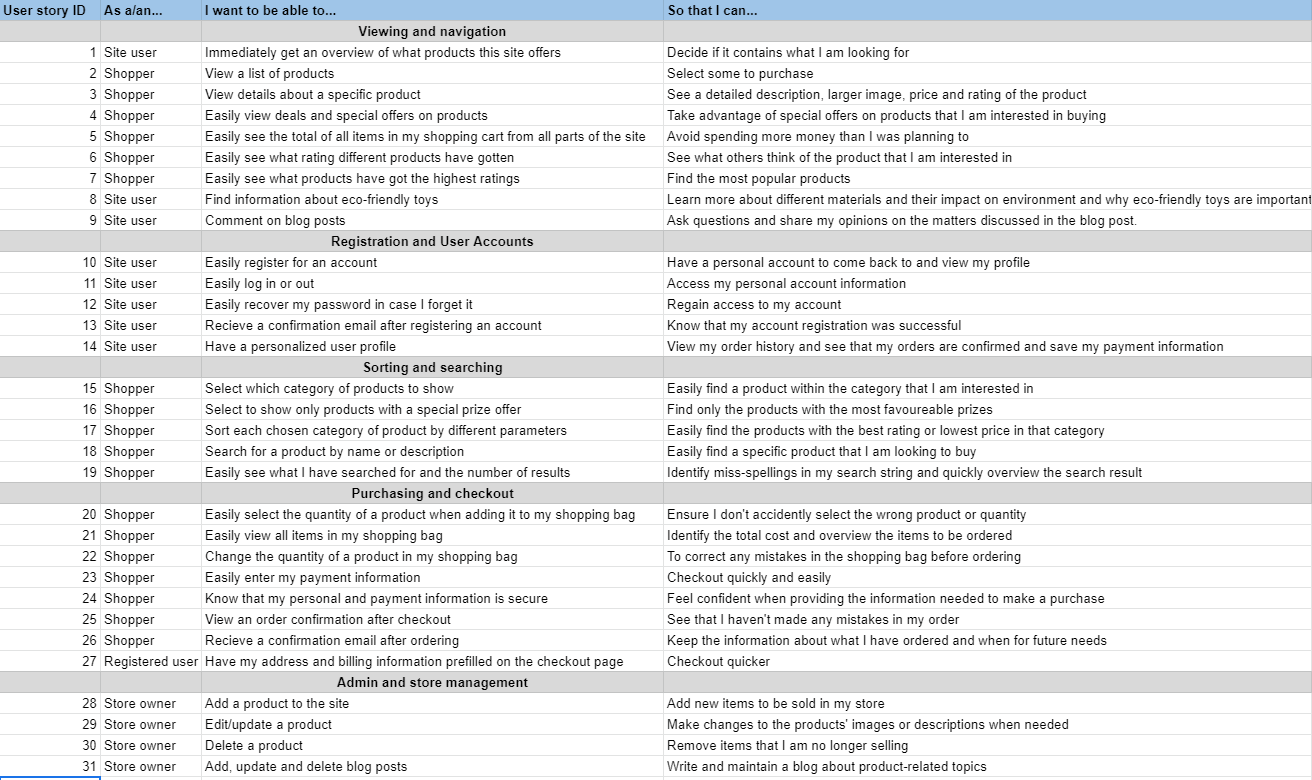
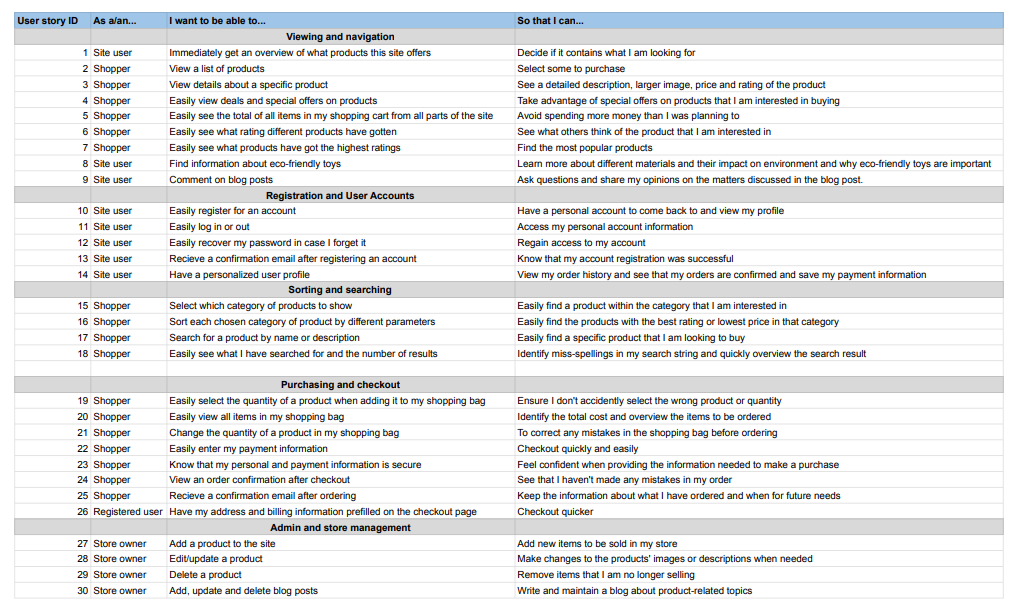
Testing and added images to user stories testing

diff --git a/blog/templates/blog/blog.html b/blog/templates/blog/blog.html
@@ -3,6 +3,7 @@
 
 {% block content %}
 <div class="container-fluid page-wrapper py-3">
+   <!-- Div showing if the user has searched for a blogpost, containing info about the search result and link back to all blog posts-->
     {% if search_term %} <a class="back-from-search" href="{% url 'blog' %}"><span class="icon"><i
        class="fas fa-arrow-left"></i></span> Back to all blog posts</a> {% else %} 
     <h3>Blog</h3>
@@ -15,6 +16,7 @@
        </div>
        <div class="row">
           <div class="col-4">
+         <!-- Search form for searching for blog posts -->
              <form method="GET" action="{% url 'blog' %}" class="d-flex ms-3 mt-3">
                 <input class="form-control nav-search-input mt-1" type="text" name="query"
                    placeholder="Search our blog" aria-label="Search">
@@ -24,6 +26,7 @@
           </div>
        </div>
     </div>
+    <!-- Decorative image showing on xl screens and up -->
     <div class="row align-items-center justify-content-center">
        <div class="d-none d-xl-block col-xl-2 mt-3">
           <img src="{{ MEDIA_URL }}bulb.png" class="blog-img"
@@ -33,6 +36,7 @@
           <h4 class=" my-3">Learn more about why sustainable toys are important and which materials to look for, or
              avoid
           </h4>
+          <!-- Displaying blog posts -->
           {% for blogpost in blogposts %}
           <div class="card-blog my-5 bg-white">
              <h5>{{ blogpost.title }}</h5>
@@ -41,6 +45,7 @@
              comment</a>
              {% if request.user.is_superuser %}
              <div class="my-3">
+            <!-- Functionality of editing and deleting blog posts, only showing if the user is logged in with superuser credentials -->
              <span class="edit-blogpost-link bg-white text-left"><a class="bg-white text-secondary"
                 href="{% url 'edit_blogpost' blogpost.id %}">Edit</a></span>
              <span class="delete-blogpost-link text-right"><a class="bg-white text-secondary"

diff --git a/home/templates/home/index.html b/home/templates/home/index.html
@@ -27,7 +27,7 @@
 <div class="container-fluid my-5 index-grid-container">
    <div class="row pb-5 align-items-center">
       <!-- Showing three toys that have campaign prices -->
-      <div class="col-12 col-lg-2 mt-2">
+      <div class="col-12 col-lg-2 mt-3">
          <h4 class="mb-2">Campaign</h4>
          <p class="text-danger">20% off original price!</p>
       </div>
@@ -52,7 +52,7 @@
    </div>
    <!-- Showing the three highest rated toys -->
    <div class="row align-items-center pb-5">
-      <div class="col-12 col-lg-2">
+      <div class="col-12 col-lg-2 mt-3">
          <h4 class="mb-2">Popular</h4>
       </div>
       {% for toy in toys %}
@@ -73,7 +73,7 @@
       {% endfor %}
    </div>
    <!-- Showing the three last added blogposts -->
-   <div class="row pb-5 align-items-center">
+   <div class="row pb-5 align-items-center mt-3">
       <div class="col-12 col-lg-2">
          <h4 class="mb-2">Blog</h4>
       </div>

diff --git a/static/css/base.css b/static/css/base.css
@@ -37,8 +37,8 @@ h2 {
 	font-family: 'Roboto Condensed', sans-serif;
 	font-size: 1.4rem;
     font-weight: bold;
-    -webkit-filter: drop-shadow(0.1rem 0.1rem 0.3rem #476919);
-	filter: drop-shadow(0.1rem 0.1rem 0.3rem #476919);
+    -webkit-filter: drop-shadow(0.1rem 0.1rem 0.2rem #264101);
+	filter: drop-shadow(0.1rem 0.1rem 0.2rem #264101);
 }
 
 h3,
@@ -198,7 +198,6 @@ hr {
 	margin-top: 3.5rem;
 	max-width: 100%;
 	position: absolute;
-	z-index: -10;
 }
 
 .header-banner h2 {
@@ -623,7 +622,7 @@ hr {
 
 @media (min-width: 768px) {
 	.index-hero {
-		background: url('/media/hero-img.jpg') no-repeat right center fixed;
+		background: url('../assets/images/hero-img.jpg') no-repeat right center fixed;
 		background-size: cover;
 	}
 	.index-card-text {

diff --git a/blog/templates/blog/edit_blog.html b/blog/templates/blog/edit_blog.html
@@ -8,6 +8,7 @@
     <h3>Edit Blogpost</h3>
     <div class="row justify-content-center">
        <div class="col-12 col-lg-6 col-xl-5 mt-5 ">
+          <!-- Form for editing a blogpost-->
           <form action="{% url 'edit_blogpost' blogpost.id %}" method="POST" enctype="multipart/form-data" class="site-form">
              {% csrf_token %}
              {% for field in form %}
@@ -24,13 +25,3 @@
     </div>
  </div>
  {% endblock %}
- {% block postloadjs %} 
- {{ block.super }} 
- <script type="text/javascript">
-    $('#new-image').change(function() {
-        var file = $('#new-image')[0].files[0];
-        $('#filename').text(`Image will be set to ${file.name}`);
-    });
-        
- </script>
-{% endblock %}

diff --git a/blog/templates/blog/confirm_delete_blog.html b/blog/templates/blog/confirm_delete_blog.html
@@ -8,6 +8,7 @@
     <h3>Delete Blogpost</h3>
     <div class="row justify-content-center">
        <div class="col-12 col-lg-6 mt-5 text-center">
+          <!-- Form for confirming that the superuser is certain they want to delete the chosen blogpost -->
           <form action="{% url 'delete_blogpost' blogpost.id %}" method="POST" enctype="multipart/form-data" class="site-form">
              {% csrf_token %}
              <legend class="mx-auto mb-5 mt-2 delete-confirm-legend">Are you sure you want to delete blogpost "{{ blogpost.title }}" ?</legend>

diff --git a/README.md b/README.md
@@ -128,75 +128,70 @@ The ideal client for this website is:
 
 15. As a shopper I want to be able to select which category of products to show so that I can easily find a product within the category that I am interested in
 
-16. As a shopper I want to be able to select to show only products with a special prize offer so that I can find only the products with the most favoureable prizes
-
-![Image of wireframe showing close up of dropdown with choice of category to show](/static/readme-assets/readme-images/categories.png)
-
-17. As a shopper I want to be able to sort each chosen category of product by different parameters so that I can easily find the products with the best rating or lowest price in that category
+16. As a shopper I want to be able to sort each chosen category of product by different parameters so that I can easily find the products with the best rating or lowest price in that category
 
 ![Image of wireframe showing close up of dropdown with choice of parameter to sort the product list by](/static/readme-assets/readme-images/sortby_closeup.png)
 
-18. As a shopper I want to be able to search for a product by name or description so that I can easily find a specific product that I am looking to buy
+17. As a shopper I want to be able to search for a product by name or description so that I can easily find a specific product that I am looking to buy
 
 ![Image of wireframe showing close up of search field](/static/readme-assets/readme-images/search.png)
 
-19. As a shopper I want to be able to easily see what I have searched for and the number of results so that I can identify miss-spellings in my search string and quickly overview the search result
+18. As a shopper I want to be able to easily see what I have searched for and the number of results so that I can identify miss-spellings in my search string and quickly overview the search result
 
 ![Image of wireframe showing search results page](/static/readme-assets/readme-images/search_results.png)
 
-20. As a shopper I want to be able to easily select a quantity of the product when adding it to my shopping bag, so that I an ensure I don't accidently select the wrong quantity
+19. As a shopper I want to be able to easily select a quantity of the product when adding it to my shopping bag, so that I an ensure I don't accidently select the wrong quantity
 
 ![Image of wireframe showing close up of quantity choose field on product details page](/static/readme-assets/readme-images/quantity_closeup.png)
 
-21. As a shopper I want to be able to easily view all items in my shopping bag so that I can identify the total cost and overview the items to be ordered
+20. As a shopper I want to be able to easily view all items in my shopping bag so that I can identify the total cost and overview the items to be ordered
 
 ![Image of wireframe of shopping bag page on mobile](/static/readme-assets/readme-images/shopping_bag_mobile.png)
 
 ![Image of wireframe of shopping bag page on web](/static/readme-assets/readme-images/shopping_bag_web.png)
 
-22. As a shopper I want to be able to change the quantity of a product in my shopping bag so that I can correct any mistakes in quantity of products before I order
+21. As a shopper I want to be able to change the quantity of a product in my shopping bag so that I can correct any mistakes in quantity of products before I order
 
 ![Image of wireframe showing close up of change quantity field in shopping bag](/static/readme-assets/readme-images/change_quantity_closeup.png)
 
-23. As a shopper I want to be able to easily enter my payment information so that I can checkout quickly and easily
-
+22. As a shopper I want to be able to easily enter my payment information so that I can checkout quickly and easily
 ![Image of wireframe of checkout page on mobile](/static/readme-assets/readme-images/checkout_mobile.png)
 
 ![Image of wireframe of checkout page on web](/static/readme-assets/readme-images/checkout_web.png)
 
-24. As a shopper I want to know that my personal and payment information is secure so that I can feel confident when providing the information needed to make a purchase
+23. As a shopper I want to know that my personal and payment information is secure so that I can feel confident when providing the information needed to make a purchase
 
 ![Image of closeup of info about secure checkout](/static/readme-assets/readme-images/secure_checkout.png)
 
-25. As a shopper I want to be able to view an order confirmation after checkout so that I can see that I haven't made any mistakes in my order
+24. As a shopper I want to be able to view an order confirmation after checkout so that I can see that I haven't made any mistakes in my order
 
-26. As a shopper I want to be able to recieve a confirmation email after ordering so that I can keep the information about what I have ordered and when for future needs
+25. As a shopper I want to be able to recieve a confirmation email after ordering so that I can keep the information about what I have ordered and when for future needs
 
 ![Image of wireframe of order confirmation page on mobile](/static/readme-assets/readme-images/order_confirmation_mobile.png)
 
 ![Image of wireframe of order confirmation page on web](/static/readme-assets/readme-images/order_confirmation_web.png)
 
-27. As a registered user I want to be able to have my address and billing information prefilled on the checkout page so that I can checkout quicker
+26. As a registered user I want to be able to have my address and billing information prefilled on the checkout page so that I can checkout quicker
 
 ![Image of wireframe of checkout page with user's info prefilled](/static/readme-assets/readme-images/users_info_prefilled.png)
 
 
-28. As a store owner I want to be able to add a product to the site so that I can add new items to be sold in my store
+27. As a store owner I want to be able to add a product to the site so that I can add new items to be sold in my store
 
 ![Image of wireframe of add product page](/static/readme-assets/readme-images/add_product.png)
 
-29. As a store owner I want to be able to edit/update a product so that I can make changes to the products' images or descriptions when needed
+28. As a store owner I want to be able to edit/update a product so that I can make changes to the products' images or descriptions when needed
 
 ![Image of wireframe of products page when superuser is logged in](/static/readme-assets/readme-images/products_page_superuser.png)
 
 ![Image of wireframe of products edit page](/static/readme-assets/readme-images/edit_product.png)
 
-30. As a store owner I want to be able to delete a product so that I can remove items that I am no longer selling
+29. As a store owner I want to be able to delete a product so that I can remove items that I am no longer selling
 
 ![Image of close up of delete product link on products page](/static/readme-assets/readme-images/delete_product_closeup.png)
 
 
-31. As a store owner I want to be able to add, update and delete blog posts so that I can write and maintain a blog about products-related topics
+30. As a store owner I want to be able to add, update and delete blog posts so that I can write and maintain a blog about products-related topics
 
 ![Image of wireframe of blog page when superuser is logged in](/static/readme-assets/readme-images/blog_page_superuser.png)
 
@@ -232,6 +227,7 @@ An env.py file is used for storing details about database and Stripe connections
 
 ### Differences between wireframes and implemented design
 
+* I originally intended to make the category selector on the toys page include the ability for the user to select only showing toys with campaign prices. This however completely slipped my mind during development and I realized it only when I was writing the testing section in the readme. Since this was not a core functionality of the page, and the time to submission deadline was running up, I decided to not build this functionality.
 
 ## Features
 

diff --git a/TESTING.md b/TESTING.md
@@ -103,37 +103,35 @@ The site has been manually tested on the functionality of the following:
 
 15. As a shopper I want to be able to select which category of products to show so that I can easily find a product within the category that I am interested in
 
-16. As a shopper I want to be able to select to show only products with a special prize offer so that I can find only the products with the most favoureable prizes
+16. As a shopper I want to be able to sort each chosen category of product by different parameters so that I can easily find the products with the best rating or lowest price in that category
 
-17. As a shopper I want to be able to sort each chosen category of product by different parameters so that I can easily find the products with the best rating or lowest price in that category
+17. As a shopper I want to be able to search for a product by name or description so that I can easily find a specific product that I am looking to buy
 
-18. As a shopper I want to be able to search for a product by name or description so that I can easily find a specific product that I am looking to buy
+18. As a shopper I want to be able to easily see what I have searched for and the number of results so that I can identify miss-spellings in my search string and quickly overview the search result
 
-19. As a shopper I want to be able to easily see what I have searched for and the number of results so that I can identify miss-spellings in my search string and quickly overview the search result
+19. As a shopper I want to be able to easily select a quantity of the product when adding it to my shopping bag, so that I an ensure I don't accidently select the wrong quantity
 
-20. As a shopper I want to be able to easily select a quantity of the product when adding it to my shopping bag, so that I an ensure I don't accidently select the wrong quantity
+20. As a shopper I want to be able to easily view all items in my shopping bag so that I can identify the total cost and overview the items to be ordered
 
-21. As a shopper I want to be able to easily view all items in my shopping bag so that I can identify the total cost and overview the items to be ordered
+21. As a shopper I want to be able to change the quantity of a product in my shopping bag so that I can correct any mistakes in quantity of products before I order
 
-22. As a shopper I want to be able to change the quantity of a product in my shopping bag so that I can correct any mistakes in quantity of products before I order
+22. As a shopper I want to be able to easily enter my payment information so that I can checkout quickly and easily
 
-23. As a shopper I want to be able to easily enter my payment information so that I can checkout quickly and easily
+23. As a shopper I want to know that my personal and payment information is secure so that I can feel confident when providing the information needed to make a purchase
 
-24. As a shopper I want to know that my personal and payment information is secure so that I can feel confident when providing the information needed to make a purchase
+24. As a shopper I want to be able to view an order confirmation after checkout so that I can see that I haven't made any mistakes in my order
 
-25. As a shopper I want to be able to view an order confirmation after checkout so that I can see that I haven't made any mistakes in my order
+25. As a shopper I want to be able to recieve a confirmation email after ordering so that I can keep the information about what I have ordered and when for future needs
 
-26. As a shopper I want to be able to recieve a confirmation email after ordering so that I can keep the information about what I have ordered and when for future needs
+26. As a registered user I want to be able to have my address and billing information prefilled on the checkout page so that I can checkout quicker
 
-27. As a registered user I want to be able to have my address and billing information prefilled on the checkout page so that I can checkout quicker
+27. As a store owner I want to be able to add a product to the site so that I can add new items to be sold in my store
 
-28. As a store owner I want to be able to add a product to the site so that I can add new items to be sold in my store
+28. As a store owner I want to be able to edit/update a product so that I can make changes to the products' images or descriptions when needed
 
-29. As a store owner I want to be able to edit/update a product so that I can make changes to the products' images or descriptions when needed
+29. As a store owner I want to be able to delete a product so that I can remove items that I am no longer selling
 
-30. As a store owner I want to be able to delete a product so that I can remove items that I am no longer selling
-
-31. As a store owner I want to be able to add, update and delete blog posts so that I can write and maintain a blog about products-related topics
+30. As a store owner I want to be able to add, update and delete blog posts so that I can write and maintain a blog about products-related topics
 
 
 
